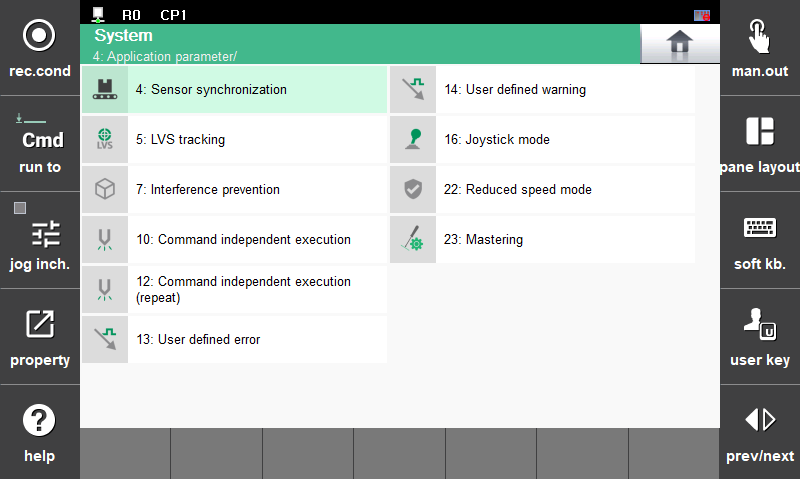
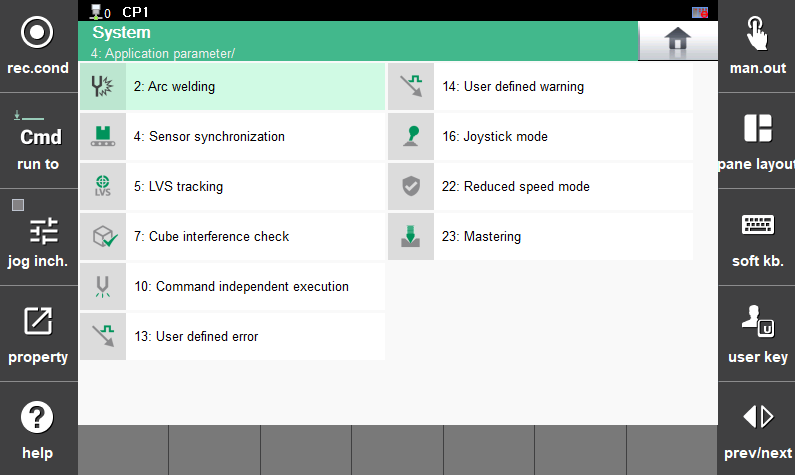
update : 마스터링 플러그인 아이콘 갱신

diff --git a/book.md b/book.md
@@ -27,18 +27,22 @@ Please click the following [link](https://hrbook-hrc.web.app/#/view/doc-hi6-oper
     - 1.2.4. Operating description
 ## 1.1 About Robot Mastering
 
-- The robot's mechanical origin could vary if situations like axis distortion or drive source replacement take occurred during shipping or in the field. The mastering function is required at this time.
-- The mastering function is used to improve the precision of robot motion and repair the mechanical origin.
+- The robot's mechanical origin could vary if situations like axis distortion or  
+drive source replacement take occurred during shipping or in the field.  
+The mastering is required at this time.  
+
+- The mastering is used to improve the precision of robot motion and repair the mechanical origin.  
+
 - A digital contact sensor is used to operate the mastering in this manual.<br>
   The sensor is attached to each axis of the robot and detects the V-groove <br> while moving from -1.5 degrees to +1.5 degrees based on the starting point.<br>
   The detected V-groove position is corrected to the mechanical origin.<div>
 <img src="../../_assets/12_mastering_concept_eng.PNG" style="max-height: 25vh; max-width: 38.5vw"><br>
-Fig 1-1. a. Starting point(axis distortion status), 
+Fig 1.1. a. Starting point(axis distortion status), 
 &nbsp;&nbsp;&nbsp;&nbsp;&nbsp;
 b. V-groove detection during mastering
 </div>## 1.2 Contact sensor-based robot mastering 
 This user manual contains information on the `contact sensor-based` robot mastering function.  
-More accurate corrections are possible by using the corresponding `digital contact sensor`.
+More accurate corrections are possible by using this sensor.    
 
 <br>
 
@@ -56,22 +60,28 @@ More accurate corrections are possible by using the corresponding `digital conta
 <br>
 
 ### 1.2.3. Operating concept
-- The digital contact sensor scans the `V-groove` of the mastering block mounted to each axis of the robot to locate a more precise origin. ([Fig 1-1](../1-about_mastering/README.md))
+- The digital contact sensor scans the `V-groove` of the mastering block mounted to each axis of the robot to locate a more precise origin. ([Fig 1-1](../1-about_mastering/README.md))  
+- After scanning the `V-groove`, a new encoder offset will be set relative to the detected vector of `V-groove`.  
+- Then calculate the `Corrected encoder` value.  
 
 <br>
 
-### 1.2.4. Operating description
-- Contact sensors are attached in the following manner 
-
-    <div>
-    <img src="../../_assets/00_mastering_Vdent_render.png" style="max-height: 20vh; max-width: 15vw">
-    <img src="../../_assets/01_mastering_real_picture.png" style="max-height: 20vh; max-width: 12.3vw"><br>Fig 1-2. Mastering kit installation example (left: render image, right: real image)
-    </div>
-<br>
-
-- The sensor moves up and down or side to side passing through the `V-groove`.
-- Based on the sensor value that varies as it goes through the `V-groove`, the central location of the groove is determined.
-- After identification, encoder offset is performed to correct the origin based on the center point.
+### 1.2.4. Overall Process  
+1. Enter `engineer mode`    
+2. Encoder offset correction - by direct teaching  
+3. Encoder offset correction - by using plugin  
+    (1) Enter the mastering plugin.  
+    (2) In [standby mode](../../02_about_kit/3-com_initialization/README.md), enter the joint number > `Shift + OK` > `OK`  
+    (3) Re-entry into the mastering plug-in.   
+    (4) Click `1.Go to the enc offset` button.  
+    (5) Mount the sensor on the joint.    
+    (6) Make sure the end of the sensor is near the `V-groove`.  
+    (7) Click the `2.Start mastering` button.  
+    (8) Click `OK` when finished.  
+    (9) Please remove the sensor.  
+    (10) If there are additional axes that need to be mastered, proceed again from (1).  
+4. ⭐After mastering of all axes is completed, move to the updated encoder origin.⭐  
+5. Check whether encoder offset is corrected after mastering.  
 
 # 2. System configuration
 
@@ -98,7 +108,7 @@ More accurate corrections are possible by using the corresponding `digital conta
     <img src="../../_assets/02_sensor.PNG" style="max-height: 23vh;max-width: 16vw">
     <img src="../../_assets/03_communication_module.PNG" style="max-height: 23vh; max-width: 25vw">
     </div>
-    Fig 2-1. a. Contact sensor&nbsp;&nbsp;&nbsp;&nbsp; b. Communication module
+    Fig 2.1.1. a. Contact sensor&nbsp;&nbsp;&nbsp;&nbsp; b. Communication module
 <br>
 
 <br>
@@ -107,7 +117,7 @@ More accurate corrections are possible by using the corresponding `digital conta
     <div>
     <img src="../../_assets/04_power_adapter.PNG" style="max-height: 20vh; max-width: 15.9vw">
     <img src="../../_assets/05_lan_cable.PNG" style="max-height: 20vh; max-width: 17.02vw"></div>
-    Fig 2-2.&nbsp;&nbsp; a. power adapter&nbsp;&nbsp;&nbsp;&nbsp;&nbsp;b. ethernet cable
+    Fig 2.1.2.&nbsp;&nbsp; a. power adapter&nbsp;&nbsp;&nbsp;&nbsp;&nbsp;b. ethernet cable
 <br>
 
 <br>
@@ -147,7 +157,7 @@ Keep in mind
     <img src="../../_assets/06_preset.PNG" style="max-height: 20vh; max-width: 22.2vw">
     <img src="../../_assets/09_preset_pressed.PNG" style="max-height: 20vh; max-width: 22vw">
     <img src="../../_assets/07_pressed.PNG" style="max-height: 20vh; max-width: 20vw"><br>
-    Fig 2-3. a. Negative value when holding the sensor 
+    Fig 2.2.1. a. Negative value when holding the sensor 
     &nbsp;&nbsp;&nbsp;&nbsp;&nbsp;&nbsp;&nbsp;&nbsp;&nbsp;&nbsp;&nbsp;&nbsp;
     b. when pressing the preset button
     &nbsp;&nbsp;&nbsp;&nbsp;&nbsp;&nbsp;&nbsp;&nbsp;&nbsp;&nbsp;&nbsp;&nbsp;
@@ -167,7 +177,7 @@ Keep in mind
     <div>
     <img src="../../_assets/08_ip_configuration.PNG" style="max-height: 30vh; max-width: 35vw">
 
-    Fig 2-4. [IP configurator](https://www.keyence.co.kr/download/download/confirmation/?dlAssetId=AS_135945&dlSeriesId=&dlModelId=&dlLangId=&dlLangType=en-GB)
+    Fig 2.2.2. [IP configurator](https://www.keyence.co.kr/download/download/confirmation/?dlAssetId=AS_135945&dlSeriesId=&dlModelId=&dlLangId=&dlLangType=en-GB)
     <br>- `Network Adaptor` : Network adaptor info for connected computer.
     <br>- `IP Search Range` : Searching for the connected device's IP address.
     <br>- `IP Address/Mac Address` : IP address and MAC address of the connected device
@@ -183,15 +193,15 @@ Mastering can be performed correctly only when you understand the conditions and
 The mastering function was developed through Hi6 SDK, and this app must be installed on the Hi6 controller to use it.  
 
 - `Install location` for hi6 controller  
-/ata0:2/lib/hi6/apps/mastering
-
+    - /ata0:2/lib/hi6/apps/mastering
 - `Install method`  
-1) After an ethernet connection, transfer the source code using FTP transmission.  
-2) After saving the source code to the USB, connect to the TP. Then copy and paste the source code utilizing TP's `5: File Management` function.
-
-- `Installation precautions`  
-To use the mastering APP after installation, the controller must be restarted.  
-Reboot the TP if you still don't see the mastering APP in the application program after doing so.
+    1) You can download the plugin by contacting the HD Hyundai Robot SW development team.  
+    2) After an ethernet connection, transfer the source code using FTP transmission.  
+    3) After saving the source code to the USB, connect to the TP.  
+    4) Then copy and paste the source code utilizing TP's `5: File Management` function.
+- ❗ `Installation precautions` ❗  
+    1) To use the mastering APP after installation, the controller must be restarted.  
+    2) Reboot the TP if you still don't see the mastering APP in the application program after doing so.
 
 <br>
 
@@ -204,12 +214,12 @@ TP : `home` > `system` > `4: Application parameter` > `23: Mastering`
 - `Standby mode`
 
     <img src="../../_assets/10_mastering_app_eng.PNG" style="max-height: 30vh; max-width: 39vw"><br>
-    Fig 2-5. Mastering app image  
+    Fig 2.3.1. Mastering app image  
 
 - If you do not see the mastering APP in the application program, just reboot the TP.
 
     <img src="../../_assets/11_standbymode_eng.PNG" style="max-height: 30vh; max-width: 39vw"><br>
-    Fig 2-6. Mastering `standby mode` image  
+    Fig 2.3.2. Mastering `standby mode` image  
 
     - `IP Address` : Enter the ip address of the mastering communicator.  
     - `Port Number` : Enter the port number of the mastering communicator.  
@@ -238,8 +248,10 @@ TP : `home` > `system` > `4: Application parameter` > `23: Mastering`
   - 3.2.1 Error Image
   - 3.2.2 Summary of Errors## 3.1. Environment & process
 ### 3.1.1 Environment
-- Before mastering is performed, the mastering kit must be installed near the `V-groove`.
-<br>Otherwise, an `'ERROR_VAL_THRESHOLD'` error may be returned.
+{% hint style="warning" %}
+**Before starting mastering, `the tip of the mastering sensor` must be nearby `V-groove`.  
+Violation of this may result in `damage to the sensor tip` or return an `ERROR_VAL_THRESHOLD` error.**
+{% endhint %}
 - Operates only in manual mode and motor on.
 - Please holding the enable switch until the operation ends.
 
@@ -247,20 +259,76 @@ TP : `home` > `system` > `4: Application parameter` > `23: Mastering`
 <br>
 
 ### 3.1.2 Operation process - summary
-1. In [Standby mode](../../02_about_kit/3-com_initialization/README.md), enter the joint number then press the '`shift + OK`' for saving configuration.
-2. Click the '`1.Go to the enc offset`' button.
-3. After step 2., click the '`2.Start mastering`' button.
-4. After step 3., enter the next target joint number, do step 2. again.
-5. After completing the mastering process for all joints, save the corrected encoder offset values using the procedures listed below.
-   - `home` > `supervisor mode(R button + 314)` > `system` > `3: Robot parameter` > `4: Encoder offset` > `shift + OK` > `OK`
-
+1. Enter `engineer mode`    
+2. Encoder offset correction - by direct teaching  
+3. Encoder offset correction - by using plugin  
+    (1) Enter the mastering plugin.  
+    (2) In [standby mode](../../02_about_kit/3-com_initialization/README.md), enter the joint number > `Shift + OK` > `OK`  
+    (3) Re-entry into the mastering plug-in.   
+    (4) Click `1.Go to the enc offset` button.  
+    (5) Mount the sensor on the joint.    
+    (6) Make sure the end of the sensor is near the `V-groove`.  
+    (7) Click the `2.Start mastering` button.  
+    (8) Click `OK` when finished.  
+    (9) Please remove the sensor.  
+    (10) If there are additional axes that need to be mastered, proceed again from (1).  
+4. ⭐After mastering of all axes is completed, move to the updated encoder origin.⭐  
+5. Check whether encoder offset is corrected after mastering.  
+    
 <br>
 <br>
 
 ### 3.1.3 Operation process - Details
-- Each joint follows below procedures.
-- Procedure status will be displayed on the mastering status block.
-  
+1. Encoder offset correction - by direct teaching  
+    1-a) Use the teach pendant (TP) to jog the robot to align the V-groove or scale bar attached to the robot.  
+    1-b) Resets the encoder offset to a visually aligned position for individual or all joint.  
+    - Enter the encoder offset setup page  
+    &rightarrow; `TP` > Enter the `Engineer Mode` (R-Button + 314) > `System` > `3: Robot parameter` > `4: Encoder offset`  
+    - Proceed with encoder offset initialization  
+        (1) When resetting individual joint:  
+        → Click `Corrrected encoder` value of the corresponding joint > Click `Reset one` > `Shift + OK` > `OK`   
+        (2) When resetting all joint:  
+        → Click `Reset all` > `Shift + OK` > `OK`  
+
+<br>
+
+2. Encoder offset correction - by using plugin  
+    (1) After completing the steps in 1, enter the mastering plugin  
+        &rightarrow; `TP` > `system` > `4: Application parameter` > `Mastering`  
+    (2) Enter the joint number in `Joint Number` > Click `Confirm`  
+    (3) Re-enter the mastering plugin to make sure the joint settings are correct.  
+    (4) If it's okay, `motor on` > `enable switch on` > Click `Go to the enc offset`.    
+        &rightarrow; Move to the origin position of the previously set.  
+    (5) Mount the sensor on the joint entered in (2).  
+        <div>
+        <img src="../../_assets/00_mastering_Vdent_render.png" style="max-height: 20vh; max-width: 15vw">
+        <img src="../../_assets/01_mastering_real_picture.png" style="max-height: 20vh; max-width: 12.3vw"><br>Fig 3.1.1. Mastering sensor installation image (left: render image, right: real image)
+        </div>
+    (6) Make sure the sensor tip is near the V groove.  
+        &rightarrow; If it is not located in the V groove, remove the sensor and repeat step 2 above.  
+    (7) 2. Click the `2. Start Mastering`.    
+    (8) When mastering is complete, click `OK`.  
+    (9) Remove the sensor.  
+    (10) If there are additional joint to mastering, proceed again from (1).  
+
+
+<br>
+
+3. ⭐After mastering of all axes is completed, move to the updated encoder origin.⭐  
+    - `TP` > `system` > `3: Robot parameter` > `4: Encoder offset` > `Moving` > `Shift + OK` > `OK`  
+    - The `Corrected encoder` has already been updated, so its value will not change even if the robot moves to the origin.  
+
+<br>
+
+4. Check whether encoder offset is corrected after mastering.  
+    - `TP` > `system` > `3: Robot parameter` > `4: Encoder offset`  
+    - Please check whether the encoder offset value updated through mastering is the same as the `Corrected encoder` value.  
+    - Check whether the `Current encoder` value for each axis is `0x400000`.  
+
+<br>
+<br>
+
+### 3.1.4 Test Process - Status Bar Log
 |Order|Mastering status|Contents|
 |:---:|:---:|:---|
 |(1)|Standby|Initial image when entering the mastering app.|
@@ -272,15 +340,10 @@ TP : `home` > `system` > `4: Application parameter` > `23: Mastering`
 |(7)|apply corrected enc offset.|The state of moving to the modified origin after mastering is completed.|
 |(8)|mastering end.|The state of mastering is finished.|
 
-- After completing (1) to (8) for current joint, enter the next joint number then press the '`shift + OK`' to update joint info.
-- After updating the joint status, repeat the steps from (2) to (8) above.
-- After completing the mastering process for all joints, save the corrected encoder offset values using the procedures listed below.
-   - `home` > `supervisor mode(R button + 314)` > `system` > `3: Robot parameter` > `4: Encoder offset` > `shift + OK` > `OK`
-
 <br>
 <br>
 
-### 3.1.4 Results - image
+### 3.1.5 Results - image
 
 - The encoder offset value is displayed on the `Encoder Offset(Before/After)` by the unit of `bit(hexa)`.
   - `Left block` : `Pre`-encoder offset value `before mastering`.  
@@ -289,7 +352,7 @@ TP : `home` > `system` > `4: Application parameter` > `23: Mastering`
       <div>
       <img src="../../_assets/13_standby_eng.png" style="max-height: 30vh; max-width: 34vw">
       <img src="../../_assets/14_mastering_end_eng.png" style="max-height: 30vh; max-width: 34vw"><br>
-      Fig 3-1.&nbsp;&nbsp;&nbsp;&nbsp;a. Standby mode image
+      Fig 3.1.2.&nbsp;&nbsp;&nbsp;&nbsp;a. Standby mode image
       &nbsp;&nbsp;&nbsp;&nbsp;
       b. Mastering complete image
       </div>
@@ -297,7 +360,7 @@ TP : `home` > `system` > `4: Application parameter` > `23: Mastering`
 <br>
 <br>
 
-### 3.1.5 Reference
+### 3.1.6 Reference
 - The reason of using `bit` for display encoder offset values.
   - It is intuitive to display angle differences when comparing mastery results, however changes of smaller than 0.01 cannot be assessed.
   - The current mastering process shifts the origin by between -1.5 and 1.5 degrees.
@@ -312,7 +375,7 @@ TP : `home` > `system` > `4: Application parameter` > `23: Mastering`
     <div>
     <img src="../../_assets/15_err_motor_on_eng.png" style="max-height: 28vh; max-width: 32vw">
     <img src="../../_assets/16_err_tcp_connect_eng.png" style="max-height: 28vh; max-width: 32vw"><br>
-    Fig 3-2. The example image for error status 
+    Fig 3.2.1. The example image for error status 
     </div>
 
 <br>
